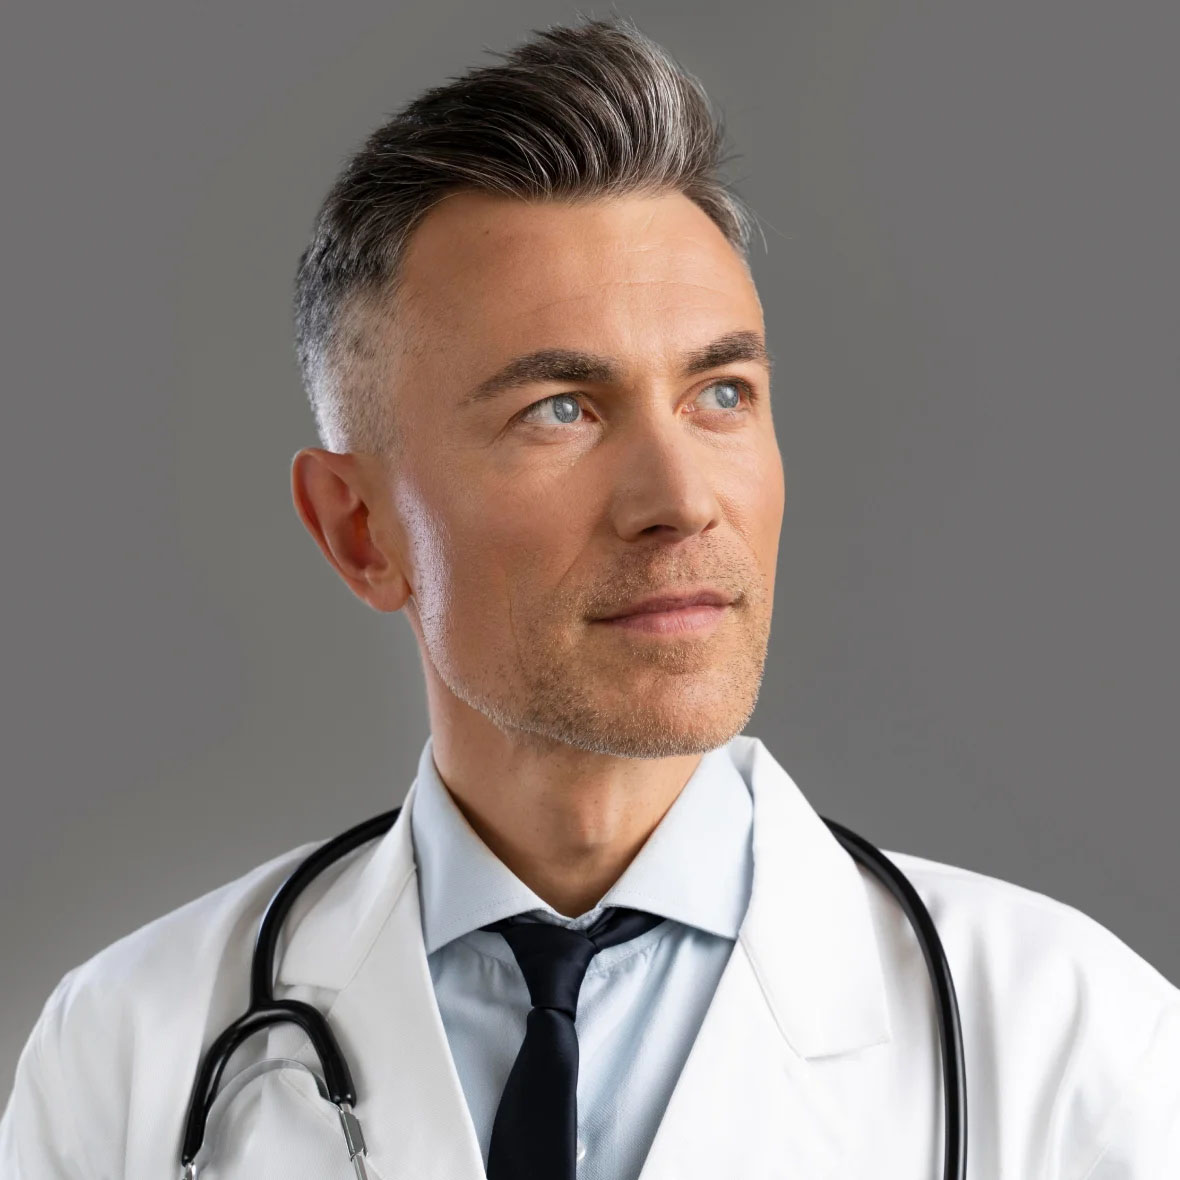
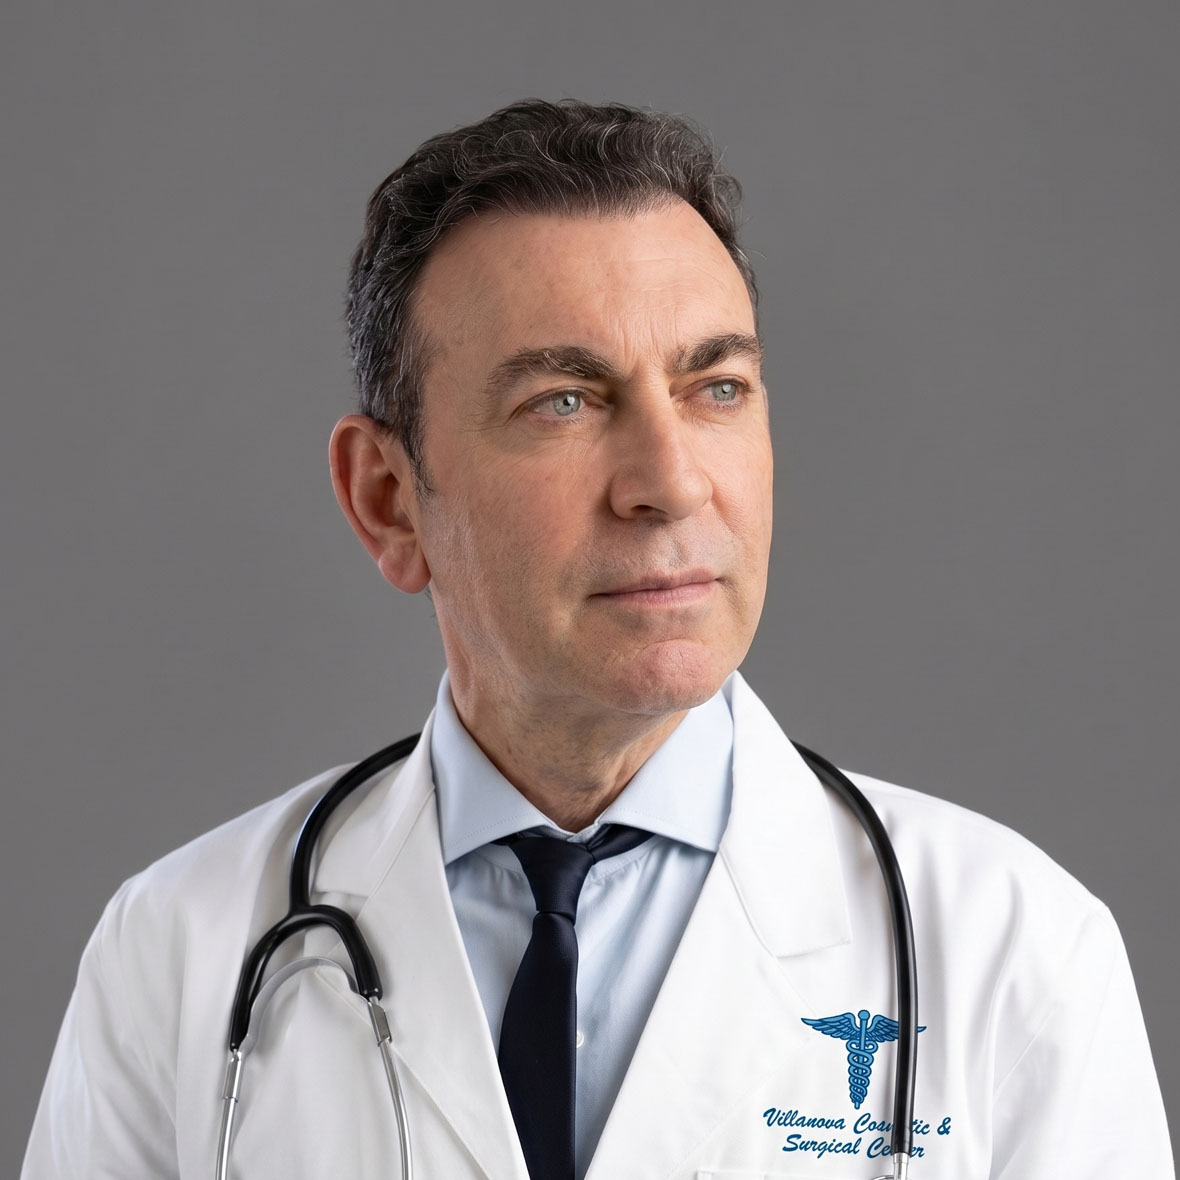
sddsf

Changed region(s): [[0.0, 0.0, 1.0, 1.0]]

diff --git a/index.html b/index.html
@@ -4,9 +4,9 @@
 <head>
     <meta charset="UTF-8">
     <meta name="viewport" content="width=device-width, initial-scale=1.0">
-    <title>Aesthetica - Plastic Surgery & Aesthetics Center</title>
+    <title>Villanova Cosmetics & One Day Surgery Center</title>
     <meta name="description"
-        content="Discover premium skincare, plastic surgery, and aesthetic treatments at Aesthetica. Book a visit for body contouring, skin treatments, and radiance therapy.">
+        content="Discover premium skincare, plastic surgery, and aesthetic treatments at Villanova Cosmetics & One Day Surgery Center. Book a visit for body contouring, skin treatments, and radiance therapy.">
     <link rel="stylesheet" href="style.css">
 </head>
 
@@ -14,7 +14,7 @@
     <!-- PRELOADER -->
     <div id="preloader">
         <div class="preloader-content">
-            <img src="images/villanovawhitelogo.png" alt="Aesthetica Logo" class="preloader-logo">
+            <img src="images/villanovawhitelogo.png" alt="Villanova Cosmetics & One Day Surgery Center Logo" class="preloader-logo">
             <div class="preloader-line"></div>
         </div>
     </div>
@@ -53,7 +53,7 @@
         </div>
         <!-- Logo for desktop view -->
         <a href="index.html" class="logo-container desktop-logo">
-            <img src="images/villanovalogo11.png" alt="Aesthetica Logo" class="logo-img">
+            <img src="images/villanovalogo11.png" alt="Villanova Cosmetics & One Day Surgery Center Logo" class="logo-img">
         </a>
 
         <div class="top-bar-right">
@@ -66,7 +66,7 @@
     <header class="main-header header-transparent">
         <!-- Logo for mobile view -->
         <a href="index.html" class="logo-container mobile-logo">
-            <img src="images/villanovalogo11.png" alt="Aesthetica Logo" class="logo-img">
+            <img src="images/villanovalogo11.png" alt="Villanova Cosmetics & One Day Surgery Center Logo" class="logo-img">
         </a>
 
         <!-- Mobile Header Actions (visible on mobile only) -->
@@ -167,7 +167,7 @@
                 <!-- Main Portrait (Back) -->
                 <img src="images/about1.jpg" alt="Facial Cosmetic Treatment" class="about-img-back">
                 <!-- Reception/Clinic Inset (Front) -->
-                <img src="images/about22.jpg" alt="Luxury Reception Lobby" class="about-img-front">
+                <img src="images/ourasth.jpg" alt="Luxury Reception Lobby" class="about-img-front">
             </div>
 
             <!-- Right: Content details -->
@@ -383,7 +383,8 @@
         <div class="services-section-header reveal-element">
             <p class="services-section-tag">WHAT WE OFFER</p>
             <h2 class="services-section-title">Our Services</h2>
-            <p class="services-section-desc">From advanced surgical procedures to wellness and aesthetics, Villanova Clinic provides world-class care across a wide range of specialties — all under one roof.</p>
+            <p class="services-section-desc">From advanced surgical procedures to wellness and aesthetics, Villanova
+                Clinic provides world-class care across a wide range of specialties — all under one roof.</p>
         </div>
 
         <div class="procedures-carousel-container reveal-element">
@@ -848,12 +849,12 @@
         <div class="doctor-bio-container">
             <!-- Left Column: Biography Content -->
             <div class="doctor-bio-content reveal-element reveal-left">
-                <span class="doctor-bio-tag">MEET DR. HOFFMAN</span>
+                <span class="doctor-bio-tag">MEET DR. PIERO CRABAI</span>
                 <h2 class="doctor-bio-title">BOARD CERTIFIED, WORLD-RENOWNED PLASTIC SURGEON</h2>
                 <p class="doctor-bio-desc">Known as a specialist facial plastic surgeon in Beverly Hills, Dr. Hoffman is
                     sought after by patients from around the world for help in correcting some of the most challenging
                     complications.</p>
-                <a href="doctors.html" class="doctor-bio-btn">MEET THE TEAM</a>
+                <a href="" class="doctor-bio-btn">MEET THE TEAM</a>
             </div>
 
             <!-- Right Column: Doctor Portrait & Play/Signature Overlays -->
@@ -915,24 +916,24 @@
                 <!-- Group 1 -->
                 <div class="ticker-group">
                     <span class="ticker-item">First-Time Botox</span>
-                    <img src="images/logoonly.png" alt="Aesthetica Monogram" class="ticker-icon">
+                    <img src="images/logoonly.png" alt="Villanova Monogram" class="ticker-icon">
                     <span class="ticker-item">New Clients Welcome</span>
-                    <img src="images/logoonly.png" alt="Aesthetica Monogram" class="ticker-icon">
+                    <img src="images/logoonly.png" alt="Villanova Monogram" class="ticker-icon">
                     <span class="ticker-item">Body Contouring Packages Available</span>
-                    <img src="images/logoonly.png" alt="Aesthetica Monogram" class="ticker-icon">
+                    <img src="images/logoonly.png" alt="Villanova Monogram" class="ticker-icon">
                     <span class="ticker-item">Book Your Consultation</span>
-                    <img src="images/logoonly.png" alt="Aesthetica Monogram" class="ticker-icon">
+                    <img src="images/logoonly.png" alt="Villanova Monogram" class="ticker-icon">
                 </div>
                 <!-- Group 2 (Duplicate for infinite loop) -->
                 <div class="ticker-group" aria-hidden="true">
                     <span class="ticker-item">First-Time Botox</span>
-                    <img src="images/logoonly.png" alt="Aesthetica Monogram" class="ticker-icon">
+                    <img src="images/logoonly.png" alt="Villanova Monogram" class="ticker-icon">
                     <span class="ticker-item">New Clients Welcome</span>
-                    <img src="images/logoonly.png" alt="Aesthetica Monogram" class="ticker-icon">
+                    <img src="images/logoonly.png" alt="Villanova Monogram" class="ticker-icon">
                     <span class="ticker-item">Body Contouring Packages Available</span>
-                    <img src="images/logoonly.png" alt="Aesthetica Monogram" class="ticker-icon">
+                    <img src="images/logoonly.png" alt="Villanova Monogram" class="ticker-icon">
                     <span class="ticker-item">Book Your Consultation</span>
-                    <img src="images/logoonly.png" alt="Aesthetica Monogram" class="ticker-icon">
+                    <img src="images/logoonly.png" alt="Villanova Monogram" class="ticker-icon">
                 </div>
             </div>
         </div>
@@ -989,7 +990,7 @@
 
     <!-- INSTAGRAM SECTION -->
     <section class="instagram-section">
-        <h3>INSTAGRAM @AESTHETICA</h3>
+        <h3>INSTAGRAM @VILLANOVACOSMETICS</h3>
         <div class="instagram-grid">
             <div class="instagram-item">
                 <img src="https://images.unsplash.com/photo-1596462502278-27bfdc403348?auto=format&fit=crop&w=600&q=80"
@@ -1091,7 +1092,7 @@
                 <!-- Center Logo Column -->
                 <div class="footer-column center">
                     <a href="index.html" class="logo-container" style="margin-bottom: 0;">
-                        <img src="images/villanovalogo11.png" alt="Aesthetica Logo" class="logo-img"
+                        <img src="images/villanovalogo11.png" alt="Villanova Cosmetics & One Day Surgery Center Logo" class="logo-img"
                             style="filter: none; max-height: 48px;">
                     </a>
                 </div>

diff --git a/doctors.html b/doctors.html
@@ -3,15 +3,15 @@
 <head>
     <meta charset="UTF-8">
     <meta name="viewport" content="width=device-width, initial-scale=1.0">
-    <title>Our Doctors & Specialists - Aesthetica</title>
-    <meta name="description" content="Meet our board-certified estheticians and cosmetologists at Aesthetica. Book an appointment for tailored clinic treatments.">
+    <title>Our Doctors & Specialists - Villanova Cosmetics & One Day Surgery Center</title>
+    <meta name="description" content="Meet our board-certified estheticians and cosmetologists at Villanova Cosmetics & One Day Surgery Center. Book an appointment for tailored clinic treatments.">
     <link rel="stylesheet" href="style.css">
 </head>
 <body>
     <!-- PRELOADER -->
     <div id="preloader">
         <div class="preloader-content">
-            <img src="images/villanovawhitelogo.png" alt="Aesthetica Logo" class="preloader-logo">
+            <img src="images/villanovawhitelogo.png" alt="Villanova Cosmetics & One Day Surgery Center Logo" class="preloader-logo">
             <div class="preloader-line"></div>
         </div>
     </div>
@@ -36,7 +36,7 @@
         </div>
         <!-- Logo for desktop view -->
         <a href="index.html" class="logo-container desktop-logo">
-            <img src="images/villanovalogo11.png" alt="Aesthetica Logo" class="logo-img">
+            <img src="images/villanovalogo11.png" alt="Villanova Cosmetics & One Day Surgery Center Logo" class="logo-img">
         </a>
 
         <div class="top-bar-right">
@@ -48,7 +48,7 @@
     <header class="main-header">
         <!-- Logo for mobile view -->
         <a href="index.html" class="logo-container mobile-logo">
-            <img src="images/villanovalogo11.png" alt="Aesthetica Logo" class="logo-img">
+            <img src="images/villanovalogo11.png" alt="Villanova Cosmetics & One Day Surgery Center Logo" class="logo-img">
         </a>
 
         <!-- Mobile Header Actions (visible on mobile only) -->
@@ -217,7 +217,7 @@
     <!-- APPOINTMENT SECTION -->
     <section class="appointment-section" id="booking-form-section">
         <div class="appointment-image">
-            <img src="images/booking-hero.jpg" alt="Aesthetica Booking Hero">
+            <img src="images/booking-hero.jpg" alt="Villanova Cosmetics Booking Hero">
         </div>
         <div class="appointment-content">
             <h2>SIGN UP FOR APPOINTMENT</h2>
@@ -271,7 +271,7 @@
 
     <!-- INSTAGRAM SECTION -->
     <section class="instagram-section">
-        <h3>INSTAGRAM @AESTHETICA</h3>
+        <h3>INSTAGRAM @VILLANOVACOSMETICS</h3>
         <div class="instagram-grid">
             <div class="instagram-item">
                 <img src="https://images.unsplash.com/photo-1596462502278-27bfdc403348?auto=format&fit=crop&w=600&q=80" alt="Instagram Skincare Item 1">
@@ -336,7 +336,7 @@
                 <!-- Center Logo Column -->
                 <div class="footer-column center">
                     <a href="index.html" class="logo-container" style="margin-bottom: 0;">
-                        <img src="images/villanovalogo11.png" alt="Aesthetica Logo" class="logo-img" style="filter: none; max-height: 48px;">
+                        <img src="images/villanovalogo11.png" alt="Villanova Cosmetics & One Day Surgery Center Logo" class="logo-img" style="filter: none; max-height: 48px;">
                     </a>
                 </div>
 

diff --git a/blog.html b/blog.html
@@ -4,9 +4,9 @@
 <head>
     <meta charset="UTF-8">
     <meta name="viewport" content="width=device-width, initial-scale=1.0">
-    <title>Aesthetica Blog - Skincare & Beauty Articles</title>
+    <title>Villanova Cosmetics & One Day Surgery Center Blog - Skincare & Beauty Articles</title>
     <meta name="description"
-        content="Read the latest articles on medical spa treatments, body contouring, skin tightness, and glowing therapies on the Aesthetica Blog.">
+        content="Read the latest articles on medical spa treatments, body contouring, skin tightness, and glowing therapies on the Villanova Cosmetics & One Day Surgery Center Blog.">
     <link rel="stylesheet" href="style.css">
 </head>
 
@@ -14,7 +14,7 @@
     <!-- PRELOADER -->
     <div id="preloader">
         <div class="preloader-content">
-            <img src="images/villanovawhitelogo.png" alt="Aesthetica Logo" class="preloader-logo">
+            <img src="images/villanovawhitelogo.png" alt="Villanova Cosmetics & One Day Surgery Center Logo" class="preloader-logo">
             <div class="preloader-line"></div>
         </div>
     </div>
@@ -53,7 +53,7 @@
         </div>
         <!-- Logo for desktop view -->
         <a href="index.html" class="logo-container desktop-logo">
-            <img src="images/villanovalogo11.png" alt="Aesthetica Logo" class="logo-img">
+            <img src="images/villanovalogo11.png" alt="Villanova Cosmetics & One Day Surgery Center Logo" class="logo-img">
         </a>
 
         <div class="top-bar-right">
@@ -66,7 +66,7 @@
     <header class="main-header">
         <!-- Logo for mobile view -->
         <a href="index.html" class="logo-container mobile-logo">
-            <img src="images/villanovalogo11.png" alt="Aesthetica Logo" class="logo-img">
+            <img src="images/villanovalogo11.png" alt="Villanova Cosmetics & One Day Surgery Center Logo" class="logo-img">
         </a>
 
         <!-- Mobile Header Actions (visible on mobile only) -->
@@ -230,7 +230,7 @@
 
     <!-- INSTAGRAM SECTION -->
     <section class="instagram-section">
-        <h3>INSTAGRAM @AESTHETICA</h3>
+        <h3>INSTAGRAM @VILLANOVACOSMETICS</h3>
         <div class="instagram-grid">
             <div class="instagram-item">
                 <img src="https://images.unsplash.com/photo-1596462502278-27bfdc403348?auto=format&fit=crop&w=600&q=80"
@@ -332,7 +332,7 @@
                 <!-- Center Logo Column -->
                 <div class="footer-column center">
                     <a href="index.html" class="logo-container" style="margin-bottom: 0;">
-                        <img src="images/villanovalogo11.png" alt="Aesthetica Logo" class="logo-img"
+                        <img src="images/villanovalogo11.png" alt="Villanova Cosmetics & One Day Surgery Center Logo" class="logo-img"
                             style="filter: none; max-height: 48px;">
                     </a>
                 </div>
